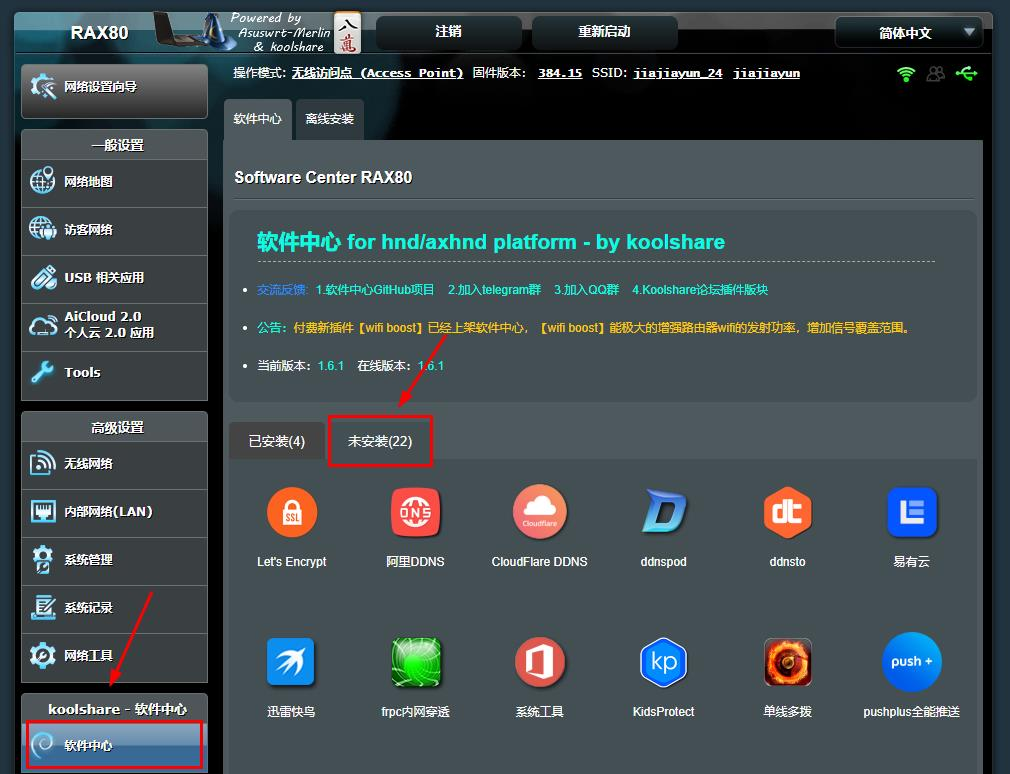
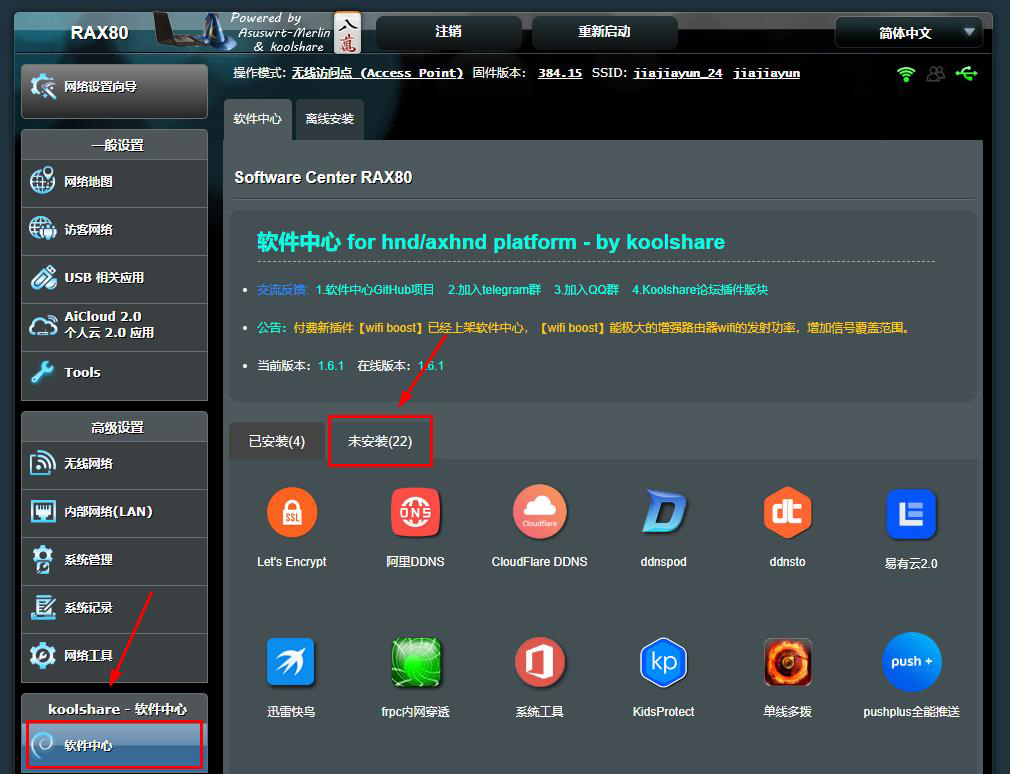
修改了KoolshareMerlinn文档

diff --git a/manual/pages/zh-cn/tutorial/NAS/KoolshareMerlin.md b/manual/pages/zh-cn/tutorial/NAS/KoolshareMerlin.md
@@ -4,16 +4,16 @@
 #### 1.登录NETGEAR RAX80固件管理端，点击“软件中心”，进入软件中心页面。点击“未安装”，进入未安装的插件页面；
 ![输入图片描述](KoolshareMerlin_md_files/2-2.jpg?v=1&type=image)
 
-#### 2.选中“易有云”，点击“安装”，安装易有云插件；
+#### 2.选中“易有云2.0”，点击“安装”，安装易有云插件；
 ![输入图片描述](KoolshareMerlin_md_files/2-1.jpg?v=1&type=image)
 
-#### 3.安装完成后，在“已安装”页面找到易有云插件，单击打开；
+#### 3.安装完成后，在“已安装”页面找到易有云2.0插件，单击打开；
 ![输入图片描述](KoolshareMerlin_md_files/2.jpg?v=1&type=image)
 
-#### 4.调整开关状态为“开启”，点击“配置中心”，进入易有云向导页面；
+#### 4.调整开关状态为“开启”，点击“配置中心”，进入易有云2.0向导页面；
 ![输入图片描述](KoolshareMerlin_md_files/3.jpg?v=1&type=image)
 
-#### 5.在易有云向导页面登录客户端；
+#### 5.在易有云2.0向导页面登录客户端；
 ①方式一：打开手机易有云，扫描登录二维码登录；
 ②方式二：输入您所注册的易有云账号密码进行登录；
 ![输入图片描述](KoolshareMerlin_md_files/4.jpg?v=1&type=image)
@@ -22,7 +22,7 @@
 ![输入图片描述](KoolshareMerlin_md_files/5.jpg?v=1&type=image)
 ![输入图片描述](KoolshareMerlin_md_files/6.jpg?v=1&type=image)
 
-#### 7.操作成功后，即可在客户端使用该账号管理设备文件；
+#### 7.操作成功后，即可在易有云2.0客户端使用该账号管理设备文件；
 ![输入图片描述](KoolshareMerlin_md_files/7.jpg?v=1&type=image)
 
 *易有云存储端与客户端一一对应，绑定成功后，每次在存储端登录时，需登录此账。否则，在该存储端的向导页面将无法登录；
